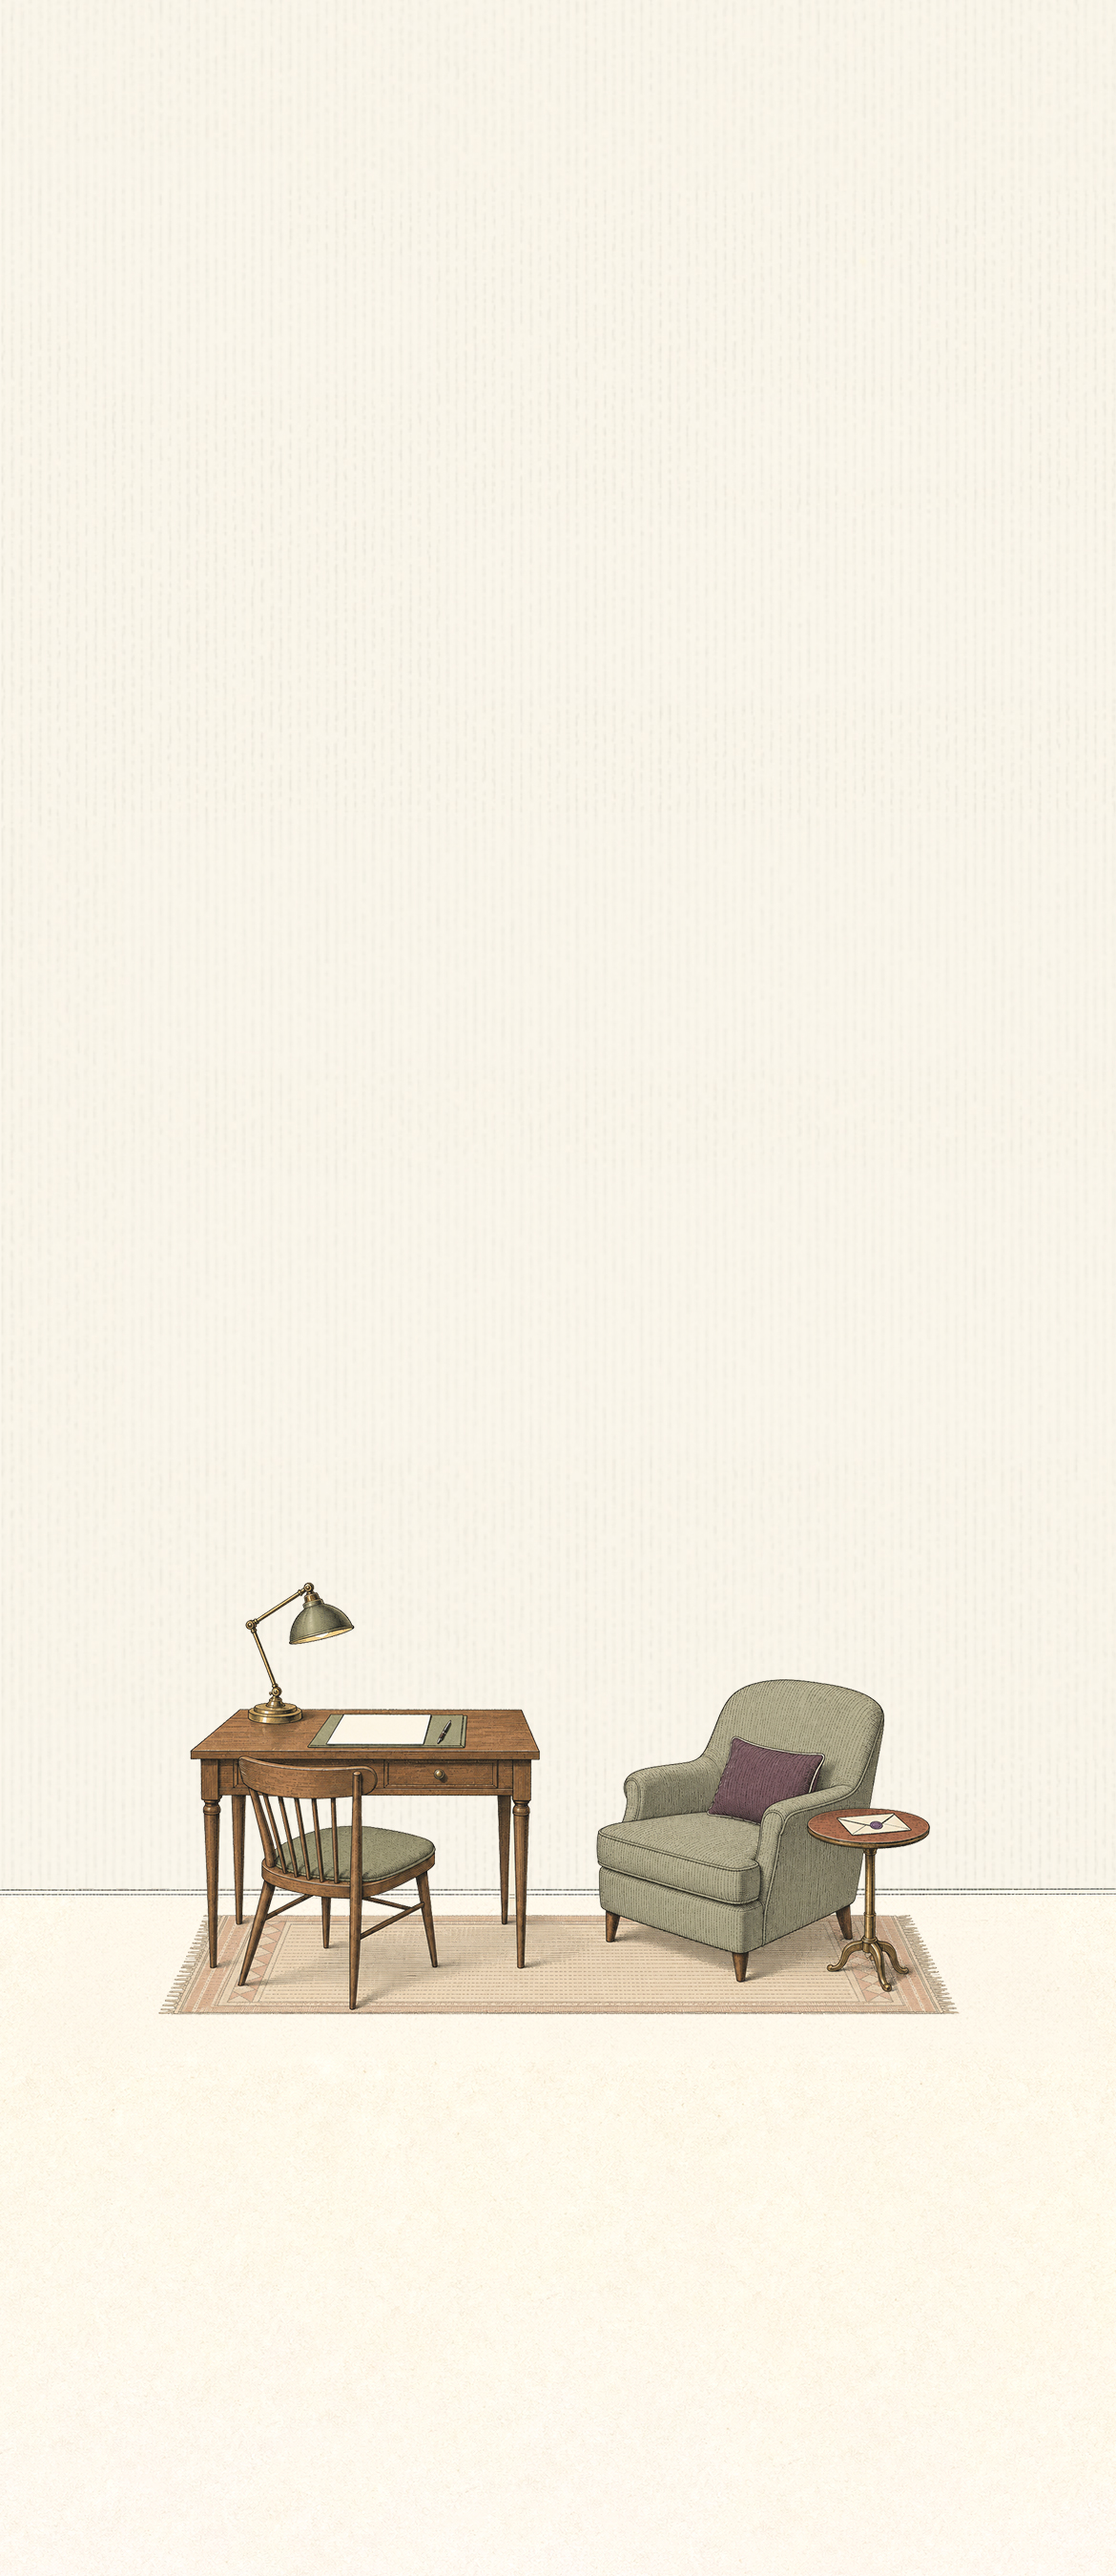
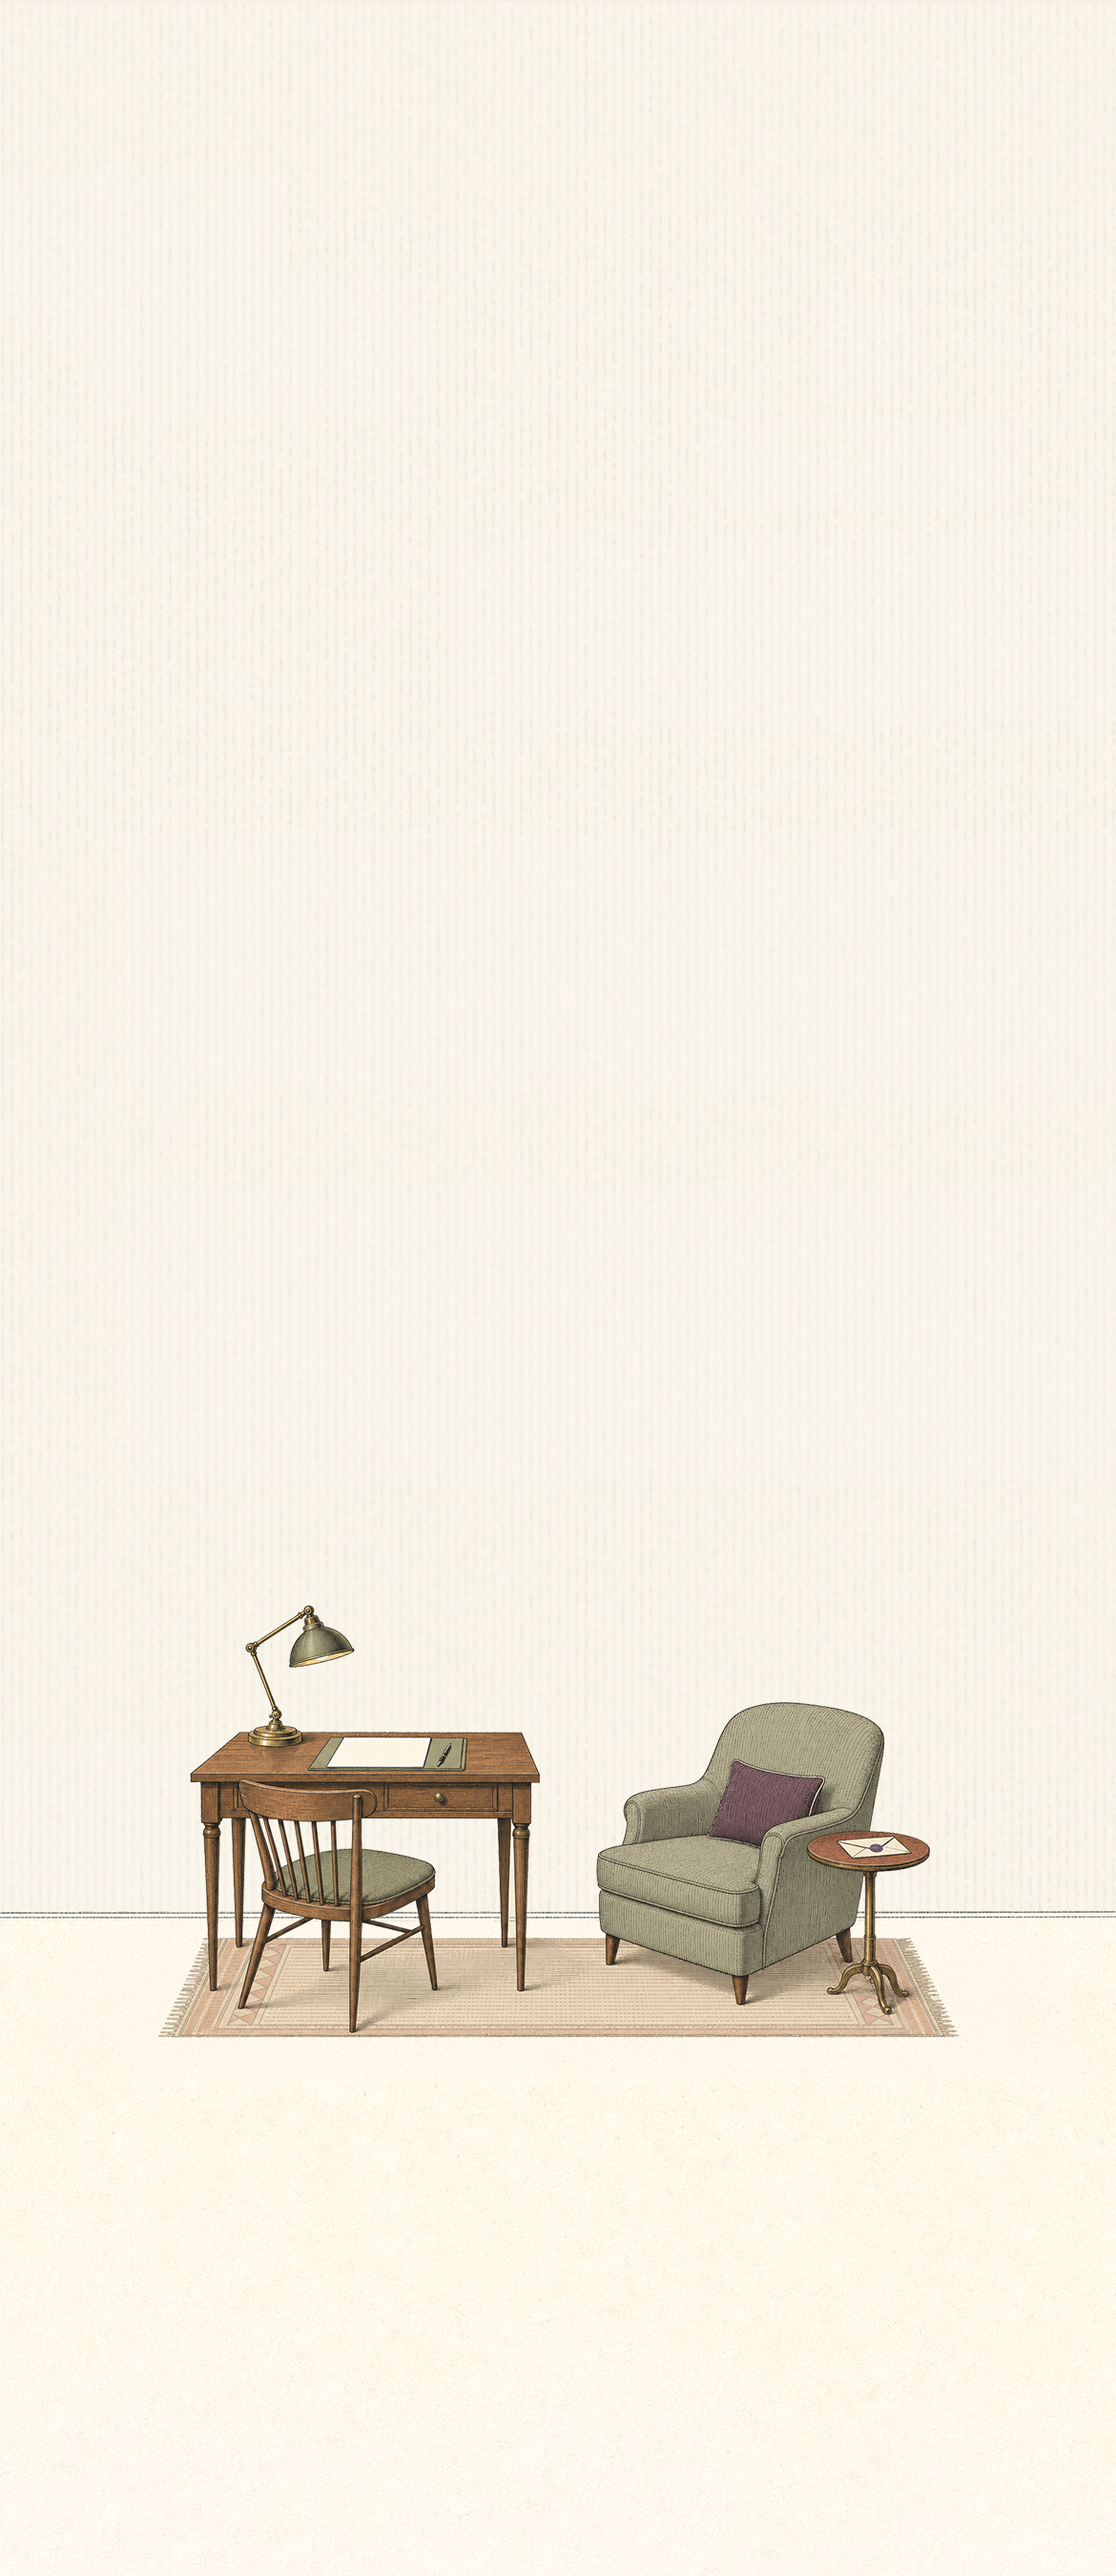
Use dedicated room artwork on iPhone SE

Changed region(s): [[0.1538, 0.6222, 0.8923, 0.8089], [0.0308, 0.7156, 0.0615, 0.7467]]

diff --git a/src/HomeRuledRefinedScreen.module.css b/src/HomeRuledRefinedScreen.module.css
@@ -291,6 +291,11 @@
 
 /* iPhone SE portrait-sized viewports, including the original 320px model. */
 @media (orientation: portrait) and (max-width: 376px) and (max-height: 668px) {
+  /* SE에서는 가구의 시작점이 더 낮은 03 시안을 써 카드와 장면을 분리한다. */
+  .cardsOnly.cardsOnly.cardsOnly {
+    background-image: url("/assets/home-cards-room-03.jpg") !important;
+  }
+
   /* SE에서는 원본 배경의 러그 끝점(표시 크기 기준)을 기준으로 문구까지
      24px을 맞춘다. 문구·내비 간격은 그대로 두고 배경만 18px 더 내린다. */
   .cardsOnly.cardsOnly.cardsOnly {
